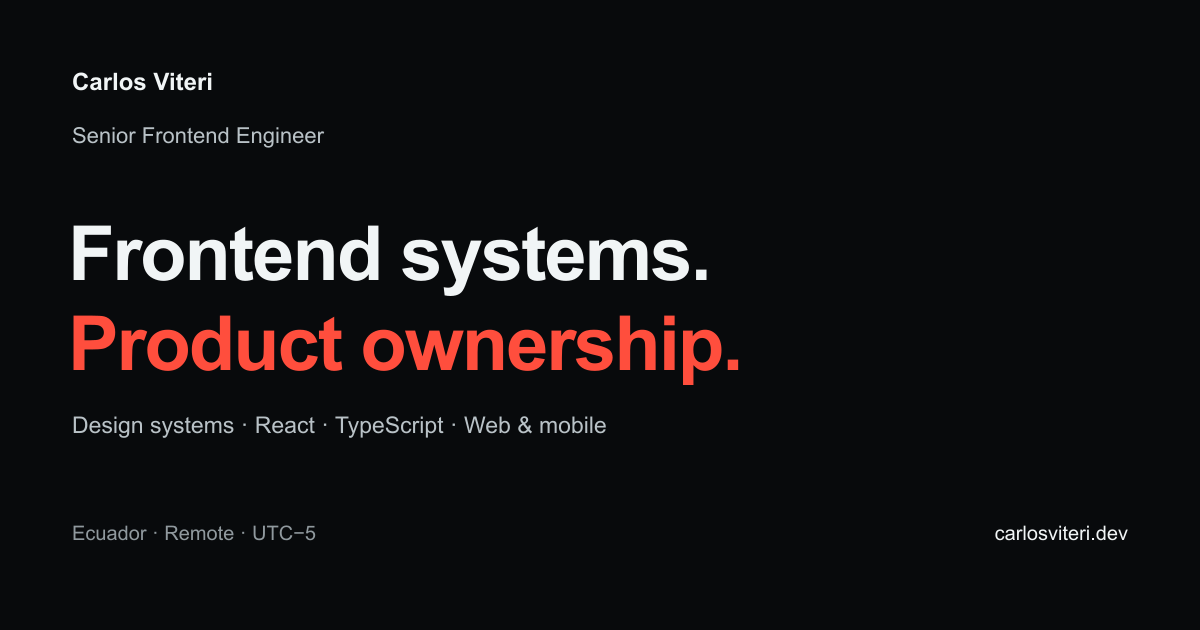
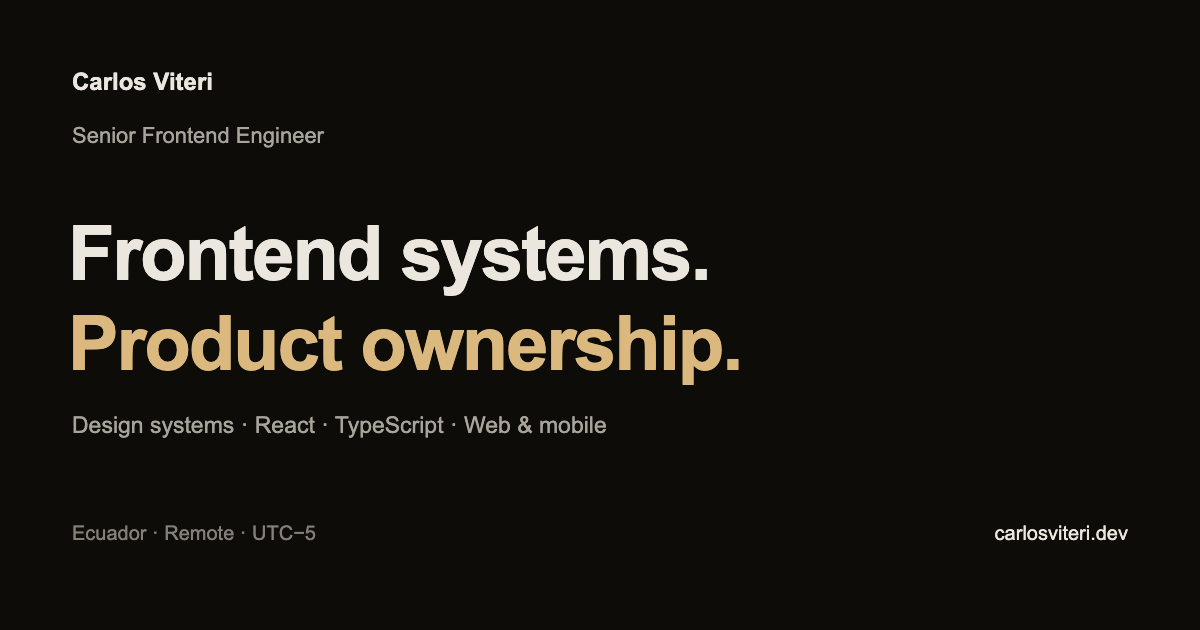
Calm the portfolio into a quiet editorial look
- Warm near-black canvas, soft off-white ink, and a muted ochre accent in place of red
- Newsreader serif for display type; Archivo stays for body text
- Featured panels, thumbnails, and the product frame move to neutral surfaces
- Contact section returns to a dark surface with a serif email link
- Logo mark, icons, and social card recoloured to match

diff --git a/src/styles/global.css b/src/styles/global.css
@@ -3,28 +3,29 @@
 @font-face { font-family: "Plain Ampersand"; src: local("Helvetica Neue"), local("HelveticaNeue"), local("Arial"), local("ArialMT"); font-weight: 100 500; unicode-range: U+26; }
 
 :root {
-  --canvas: oklch(0.13 0.012 250);
-  --canvas-deep: oklch(0.095 0.008 250);
-  --surface: oklch(0.17 0.015 250);
-  --surface-high: oklch(0.21 0.018 250);
-  --line: oklch(0.31 0.018 250);
-  --line-soft: oklch(0.24 0.015 250);
-  --ink: oklch(0.96 0.008 230);
-  --text: oklch(0.82 0.015 230);
-  --muted: oklch(0.74 0.018 230);
-  --faint: oklch(0.64 0.018 230);
-  --signal: oklch(0.67 0.23 30);
-  --signal-bright: oklch(0.73 0.2 31);
-  --signal-soft: oklch(0.67 0.23 30 / 0.13);
-  --cool: oklch(0.83 0.12 205);
-  --cool-soft: oklch(0.83 0.12 205 / 0.12);
+  --canvas: oklch(0.155 0.006 70);
+  --canvas-deep: oklch(0.12 0.005 70);
+  --surface: oklch(0.195 0.007 70);
+  --surface-high: oklch(0.235 0.008 70);
+  --line: oklch(0.32 0.008 70);
+  --line-soft: oklch(0.25 0.007 70);
+  --ink: oklch(0.93 0.012 85);
+  --text: oklch(0.83 0.012 85);
+  --muted: oklch(0.72 0.012 85);
+  --faint: oklch(0.62 0.012 85);
+  --signal: oklch(0.8 0.085 80);
+  --signal-bright: oklch(0.86 0.08 82);
+  --signal-soft: oklch(0.8 0.085 80 / 0.14);
+  --cool: oklch(0.86 0.06 85);
+  --cool-soft: oklch(0.86 0.06 85 / 0.12);
   --font-body:
     "Plain Ampersand", "Archivo Variable", "Avenir Next", Avenir, "Segoe UI", "Helvetica Neue", Helvetica, sans-serif;
+  --font-display: "Newsreader Variable", "Iowan Old Style", "Palatino Linotype", Palatino, Georgia, serif;
   --font-code: ui-monospace, "SFMono-Regular", Menlo, Consolas, monospace;
   --container: 57rem;
-  --wide: 84rem;
-  --gutter: clamp(1.15rem, 3.2vw, 3rem);
-  --section-space: clamp(4.5rem, 10vw, 9rem);
+  --wide: 72rem;
+  --gutter: clamp(1.25rem, 4vw, 3rem);
+  --section-space: clamp(4.5rem, 10vw, 8.5rem);
   --ease-out: cubic-bezier(0.16, 1, 0.3, 1);
   --z-header: 20;
   color-scheme: dark;
@@ -61,7 +62,7 @@ img, svg { display: block; max-width: 100%; }
 .hero, .content-section, .contact-inner { width: min(100%, var(--wide)); margin-inline: auto; padding-inline: var(--gutter); }
 
 /* Hero: one viewport, headline at full strength. */
-.hero { display: flex; flex-direction: column; min-height: 100svh; padding-top: 6.5rem; padding-bottom: 2rem; }
+.hero { display: flex; flex-direction: column; min-height: min(100svh, 56rem); padding-top: 6.5rem; padding-bottom: 2rem; }
 .hero-top { display: flex; flex-wrap: wrap; justify-content: space-between; align-items: center; gap: 1.25rem 2rem; }
 .hero-identity { display: flex; align-items: center; gap: 1rem; color: var(--ink); font-size: 1.05rem; font-weight: 600; }
 .hero-identity img { flex-shrink: 0; border-radius: 50%; }
@@ -70,24 +71,24 @@ img, svg { display: block; max-width: 100%; }
 .hero-status { display: block; color: var(--text); }
 .hero-status-dot { display: inline-block; width: .5rem; height: .5rem; margin-right: .6rem; border-radius: 50%; background: var(--signal); vertical-align: .05em; }
 .hero-locale { display: block; color: var(--faint); }
-.hero h1 { margin-block: auto; padding-block: clamp(2.5rem, 6vh, 5rem); color: var(--ink); font-size: clamp(3.1rem, 7.1vw, 6.6rem); font-weight: 750; font-stretch: 116%; letter-spacing: -.04em; line-height: .98; transform-origin: 0 50%; }
+.hero h1 { margin-block: auto; padding-block: clamp(2.5rem, 7vh, 5rem); color: var(--ink); font-family: var(--font-display); font-size: clamp(2.9rem, 6.6vw, 5.75rem); font-weight: 380; letter-spacing: -.025em; line-height: 1.02; transform-origin: 0 50%; }
 .hero-line { display: block; overflow: clip; padding-block: .04em .14em; margin-block: -.04em -.14em; }
 .hero-line > span { display: block; }
-.hero-line--accent { color: var(--signal); }
+.hero-line--accent { font-style: italic; color: var(--text); }
 .hero-body { display: flex; flex-wrap: wrap; justify-content: space-between; align-items: end; gap: 1.5rem 3rem; }
-.hero-intro { max-width: 48ch; font-size: clamp(1.05rem, 1.5vw, 1.3rem); line-height: 1.55; text-wrap: pretty; }
+.hero-intro { max-width: 46ch; font-size: clamp(1.05rem, 1.4vw, 1.2rem); line-height: 1.6; text-wrap: pretty; }
 .hero-actions { display: flex; flex-wrap: wrap; align-items: center; gap: .75rem 1.5rem; }
 .hero-work-link { display: inline-flex; align-items: center; gap: .6rem; min-height: 2.75rem; color: var(--ink); font-size: .95rem; }
 .hero-work-link:hover { text-decoration: underline; text-underline-offset: .3em; }
 .hero-work-link span { display: inline-block; color: var(--signal); transition: transform 250ms var(--ease-out); }
 .hero-work-link:hover span { transform: translateY(3px); }
 .hero-evidence { position: relative; display: grid; grid-template-columns: repeat(3, minmax(0, 1fr)); gap: 1rem 2rem; margin-top: clamp(2rem, 5vh, 3.5rem); padding-top: 1.5rem; }
-.hero-evidence::before { content: ""; position: absolute; inset: 0 0 auto; height: 1px; background: var(--line); transform-origin: left center; }
+.hero-evidence::before { content: ""; position: absolute; inset: 0 0 auto; height: 1px; background: var(--line-soft); transform-origin: left center; }
 .hero-evidence a { display: block; min-height: 2.75rem; }
-.hero-evidence strong { display: block; color: var(--ink); font-size: .95rem; font-weight: 600; line-height: 1.5; }
+.hero-evidence strong { display: block; color: var(--ink); font-size: .95rem; font-weight: 550; line-height: 1.5; }
 .hero-evidence span { display: block; margin-top: .25rem; color: var(--muted); font-size: .85rem; line-height: 1.6; }
 .hero-evidence a:hover strong { text-decoration: underline; text-decoration-color: var(--signal); text-underline-offset: .3em; }
-.cta { display: inline-flex; align-items: center; justify-content: space-between; gap: 2rem; min-height: 3.5rem; padding: .9rem 1.4rem; color: var(--canvas-deep); background: var(--signal); font-size: 1rem; font-weight: 700; transition: background-color 150ms var(--ease-out); }
+.cta { display: inline-flex; align-items: center; justify-content: space-between; gap: 1.75rem; min-height: 3.25rem; padding: .8rem 1.3rem; border-radius: 999px; color: var(--canvas-deep); background: var(--ink); font-size: .95rem; font-weight: 600; transition: background-color 200ms var(--ease-out); }
 .cta:hover { background: var(--signal-bright); }
 .cta:active { background: var(--signal); }
 .cta-arrow { transition: transform 200ms var(--ease-out); }
@@ -96,41 +97,40 @@ img, svg { display: block; max-width: 100%; }
 
 /* Sections share one display voice: the wide cut of the family. */
 .content-section { padding-top: var(--section-space); }
-.content-section h2, .contact-section h2 { margin-bottom: clamp(2rem, 4vw, 3.5rem); color: var(--ink); font-size: clamp(2.4rem, 6.2vw, 5.25rem); font-weight: 750; font-stretch: 116%; letter-spacing: -.04em; line-height: 1; text-wrap: balance; }
+.content-section h2, .contact-section h2 { margin-bottom: clamp(2rem, 4vw, 3rem); color: var(--ink); font-family: var(--font-display); font-size: clamp(2.1rem, 4.4vw, 3.5rem); font-weight: 380; letter-spacing: -.02em; line-height: 1.08; text-wrap: balance; }
 .capability-list { border-bottom: 1px solid var(--line-soft); }
 .capability-list li { display: grid; grid-template-columns: minmax(0, 5fr) minmax(0, 7fr); gap: 1rem 2rem; padding-block: clamp(1.5rem, 3vw, 2.5rem); border-top: 1px solid var(--line-soft); }
-.capability-list h3 { color: var(--ink); font-size: clamp(1.35rem, 2.4vw, 2rem); font-weight: 700; font-stretch: 112%; letter-spacing: -.03em; line-height: 1.15; text-wrap: balance; }
-.capability-list p { max-width: 62ch; color: var(--muted); font-size: 1.05rem; text-wrap: pretty; }
+.capability-list h3 { color: var(--ink); font-family: var(--font-display); font-size: clamp(1.35rem, 2.1vw, 1.7rem); font-weight: 400; letter-spacing: -.01em; line-height: 1.2; text-wrap: balance; }
+.capability-list p { max-width: 60ch; color: var(--muted); text-wrap: pretty; }
 
 .product-case { display: grid; grid-template-columns: minmax(0, 5fr) minmax(0, 7fr); gap: 1.5rem 2rem; padding-top: clamp(1.5rem, 3vw, 2.5rem); border-top: 1px solid var(--line-soft); }
-.product-case h3 { color: var(--ink); font-size: clamp(1.35rem, 2.4vw, 2rem); font-weight: 700; font-stretch: 112%; letter-spacing: -.03em; line-height: 1.15; }
+.product-case h3 { color: var(--ink); font-family: var(--font-display); font-size: clamp(1.35rem, 2.1vw, 1.7rem); font-weight: 400; letter-spacing: -.01em; line-height: 1.2; }
 .product-role { margin-top: .5rem; color: var(--faint); font-size: .9rem; }
-.product-copy p { max-width: 62ch; color: var(--muted); font-size: 1.05rem; text-wrap: pretty; }
-.product-copy .product-proof { margin-top: 1.25rem; color: var(--ink); font-size: clamp(1.2rem, 2vw, 1.6rem); font-weight: 600; letter-spacing: -.02em; line-height: 1.3; }
+.product-copy p { max-width: 60ch; color: var(--muted); text-wrap: pretty; }
+.product-copy .product-proof { margin-top: 1.25rem; color: var(--ink); font-family: var(--font-display); font-size: clamp(1.25rem, 1.9vw, 1.5rem); font-style: italic; line-height: 1.35; }
 .product-copy .product-stack { margin-top: 1rem; font-size: .9rem; color: var(--faint); }
-.product-image { grid-column: 1 / -1; margin: 1rem 0 0; padding: clamp(.75rem, 4vw, 4rem) clamp(.75rem, 4vw, 4rem) 0; overflow: hidden; border-radius: 14px; background: oklch(0.36 0.075 228); }
-.product-image img { width: 100%; height: auto; border-radius: 8px 8px 0 0; box-shadow: 0 24px 60px -20px oklch(0.1 0.03 240 / 0.7); }
+.product-image { grid-column: 1 / -1; margin: 1rem 0 0; padding: clamp(.75rem, 4vw, 3.5rem) clamp(.75rem, 4vw, 3.5rem) 0; overflow: hidden; border-radius: 10px; background: var(--surface); }
+.product-image img { width: 100%; height: auto; border-radius: 6px 6px 0 0; }
 .writing-intro p { max-width: 60ch; color: var(--muted); }
 .writing-section .post-list { margin-top: 1.5rem; }
 
-/* Contact: the page ends on the signal colour. */
-.contact-section { --on-signal: var(--canvas-deep); --on-signal-soft: oklch(0.24 0.07 30); margin-top: var(--section-space); padding-top: clamp(4rem, 10vw, 8rem); padding-bottom: 1.5rem; color: var(--on-signal); background: var(--signal); }
-.contact-section ::selection { color: var(--signal); background: var(--canvas-deep); }
-.contact-section :focus-visible { outline-color: var(--canvas-deep); }
-.contact-section h2 { margin-bottom: 1rem; color: var(--on-signal); font-size: clamp(3.2rem, 11.5vw, 10rem); line-height: .92; }
-.contact-lede { color: var(--on-signal-soft); font-size: clamp(1rem, 1.6vw, 1.3rem); font-weight: 500; text-wrap: pretty; }
-.contact-email { display: inline-flex; align-items: baseline; gap: .4em; max-width: 100%; margin-top: clamp(2.5rem, 6vw, 5rem); color: var(--on-signal); font-size: clamp(1.45rem, 5.4vw, 4.5rem); font-weight: 650; letter-spacing: -.035em; line-height: 1.15; }
-.contact-email-text { overflow-wrap: anywhere; background: linear-gradient(currentColor, currentColor) 0 100% / 100% .06em no-repeat; padding-bottom: .08em; transition: background-size 500ms var(--ease-out); }
-.contact-email:hover .contact-email-text, .contact-email:focus-visible .contact-email-text { background-size: 100% 100%; color: var(--signal); }
-.contact-email-arrow { display: inline-block; font-size: .7em; transition: transform 300ms var(--ease-out); }
-.contact-email:hover .contact-email-arrow, .contact-email:focus-visible .contact-email-arrow { transform: translate(.12em, -.12em); }
-.contact-actions { display: flex; flex-wrap: wrap; align-items: center; gap: 0 2rem; margin-top: 1rem; }
-.contact-action { display: inline-flex; align-items: center; gap: .5rem; min-height: 2.75rem; padding: 0; border: 0; color: var(--on-signal); background: transparent; cursor: pointer; font-size: 1rem; font-weight: 600; text-decoration: underline; text-decoration-color: oklch(0.095 0.008 250 / .4); text-underline-offset: .3em; }
-.contact-action:hover { text-decoration-color: currentColor; }
-.contact-action span[aria-hidden] { display: inline-block; transition: transform 200ms var(--ease-out); }
+/* Contact: a quiet close on a slightly deeper surface. */
+.contact-section { margin-top: var(--section-space); padding-top: clamp(4rem, 9vw, 7rem); padding-bottom: 1.5rem; border-top: 1px solid var(--line-soft); background: var(--canvas-deep); }
+.contact-section h2 { margin-bottom: .9rem; font-size: clamp(2.6rem, 6.4vw, 5rem); }
+.contact-lede { color: var(--muted); font-size: clamp(1rem, 1.4vw, 1.15rem); text-wrap: pretty; }
+.contact-email { display: inline-flex; align-items: baseline; gap: .5em; max-width: 100%; margin-top: clamp(2rem, 5vw, 3.5rem); color: var(--ink); font-family: var(--font-display); font-size: clamp(1.5rem, 4vw, 2.75rem); font-style: italic; font-weight: 380; letter-spacing: -.01em; line-height: 1.2; }
+.contact-email-text { overflow-wrap: anywhere; padding-bottom: .1em; background: linear-gradient(var(--signal), var(--signal)) 0 100% / 0% 1px no-repeat, linear-gradient(var(--line), var(--line)) 0 100% / 100% 1px no-repeat; transition: background-size 600ms var(--ease-out); }
+.contact-email:hover .contact-email-text, .contact-email:focus-visible .contact-email-text { background-size: 100% 1px, 100% 1px; }
+.contact-email-arrow { display: inline-block; color: var(--signal); font-family: var(--font-body); font-size: .6em; font-style: normal; transition: transform 300ms var(--ease-out); }
+.contact-email:hover .contact-email-arrow, .contact-email:focus-visible .contact-email-arrow { transform: translate(.15em, -.15em); }
+.contact-actions { display: flex; flex-wrap: wrap; align-items: center; gap: 0 2rem; margin-top: 1.25rem; }
+.contact-action { display: inline-flex; align-items: center; gap: .5rem; min-height: 2.75rem; padding: 0; border: 0; color: var(--text); background: transparent; cursor: pointer; font-size: .95rem; text-decoration: underline; text-decoration-color: var(--line); text-underline-offset: .35em; transition: color 200ms var(--ease-out); }
+.contact-action:hover { color: var(--ink); text-decoration-color: currentColor; }
+.contact-action span[aria-hidden] { display: inline-block; color: var(--signal); transition: transform 200ms var(--ease-out); }
 .contact-action:hover span[aria-hidden] { transform: translate(2px, -2px); }
-.copy-status { min-height: 1.5rem; margin-top: .25rem; color: var(--on-signal); font-size: .9rem; font-weight: 600; }
-.contact-section footer { display: flex; flex-wrap: wrap; justify-content: space-between; gap: .5rem 1rem; margin-top: clamp(3rem, 8vw, 6rem); padding-top: 1rem; border-top: 1px solid oklch(0.095 0.008 250 / .35); color: var(--on-signal-soft); font-size: .85rem; font-weight: 500; }
+.copy-email[data-state="copied"] { color: var(--signal); }
+.copy-status { min-height: 1.5rem; margin-top: .25rem; color: var(--signal); font-size: .85rem; }
+.contact-section footer { display: flex; flex-wrap: wrap; justify-content: space-between; gap: .5rem 1rem; margin-top: clamp(3rem, 7vw, 5rem); padding-top: 1rem; border-top: 1px solid var(--line-soft); color: var(--faint); font-size: .85rem; }
 
 /* Signature entrance: the headline pulls into focus like an instrument settling, then the supporting detail follows. */
 @keyframes line-in {
@@ -146,8 +146,8 @@ img, svg { display: block; max-width: 100%; }
   to { transform: scaleX(1); }
 }
 @keyframes status-pulse {
-  0%, 60%, 100% { box-shadow: 0 0 0 0 oklch(0.67 0.23 30 / 0); }
-  20% { box-shadow: 0 0 0 .4rem oklch(0.67 0.23 30 / .25); }
+  0%, 60%, 100% { box-shadow: 0 0 0 0 oklch(0.8 0.085 80 / 0); }
+  20% { box-shadow: 0 0 0 .4rem oklch(0.8 0.085 80 / .2); }
 }
 @media (prefers-reduced-motion: no-preference) {
   .hero-top { animation: rise-in 600ms var(--ease-out) both; }
@@ -163,24 +163,19 @@ img, svg { display: block; max-width: 100%; }
 }
 
 /* Scroll-linked: the headline recedes as you leave it, frames open as they arrive, the contact block widens to full bleed. */
-@keyframes hero-recede { to { opacity: .12; scale: .94; } }
+@keyframes hero-recede { to { opacity: .2; scale: .97; } }
 @keyframes frame-open {
-  from { opacity: .35; clip-path: inset(8% 6% round 20px); }
-  to { opacity: 1; clip-path: inset(0 round 14px); }
-}
-@keyframes contact-open {
-  from { clip-path: inset(0 6% round 28px 28px 0 0); }
-  to { clip-path: inset(0 round 0); }
+  from { opacity: .4; clip-path: inset(6% 4% round 14px); }
+  to { opacity: 1; clip-path: inset(0 round 10px); }
 }
 @keyframes title-rise {
-  from { translate: 0 .35em; opacity: .2; }
+  from { translate: 0 .25em; opacity: .3; }
   to { translate: 0 0; opacity: 1; }
 }
 @supports (animation-timeline: view()) {
   @media (prefers-reduced-motion: no-preference) {
     .hero h1 { animation: hero-recede linear both; animation-timeline: scroll(); animation-range: 8vh 75vh; }
     .product-image { animation: frame-open linear both; animation-timeline: view(); animation-range: entry 0% cover 30%; }
-    .contact-section { animation: contact-open linear both; animation-timeline: view(); animation-range: entry 0% entry 80%; }
     .contact-section h2 { animation: title-rise linear both; animation-timeline: view(); animation-range: entry 0% cover 35%; }
   }
 }
@@ -188,7 +183,7 @@ img, svg { display: block; max-width: 100%; }
 @media (max-width: 760px) {
   .hero { padding-top: 5.5rem; }
   .hero-availability { text-align: left; }
-  .hero h1 { font-size: clamp(3rem, 14.2vw, 5.5rem); font-stretch: 100%; }
+  .hero h1 { font-size: clamp(2.9rem, 13.2vw, 5rem); }
   .capability-list li, .product-case { grid-template-columns: 1fr; gap: .6rem; }
   .product-copy { margin-top: .5rem; }
   .hero-evidence { grid-template-columns: 1fr; gap: 1rem; }
